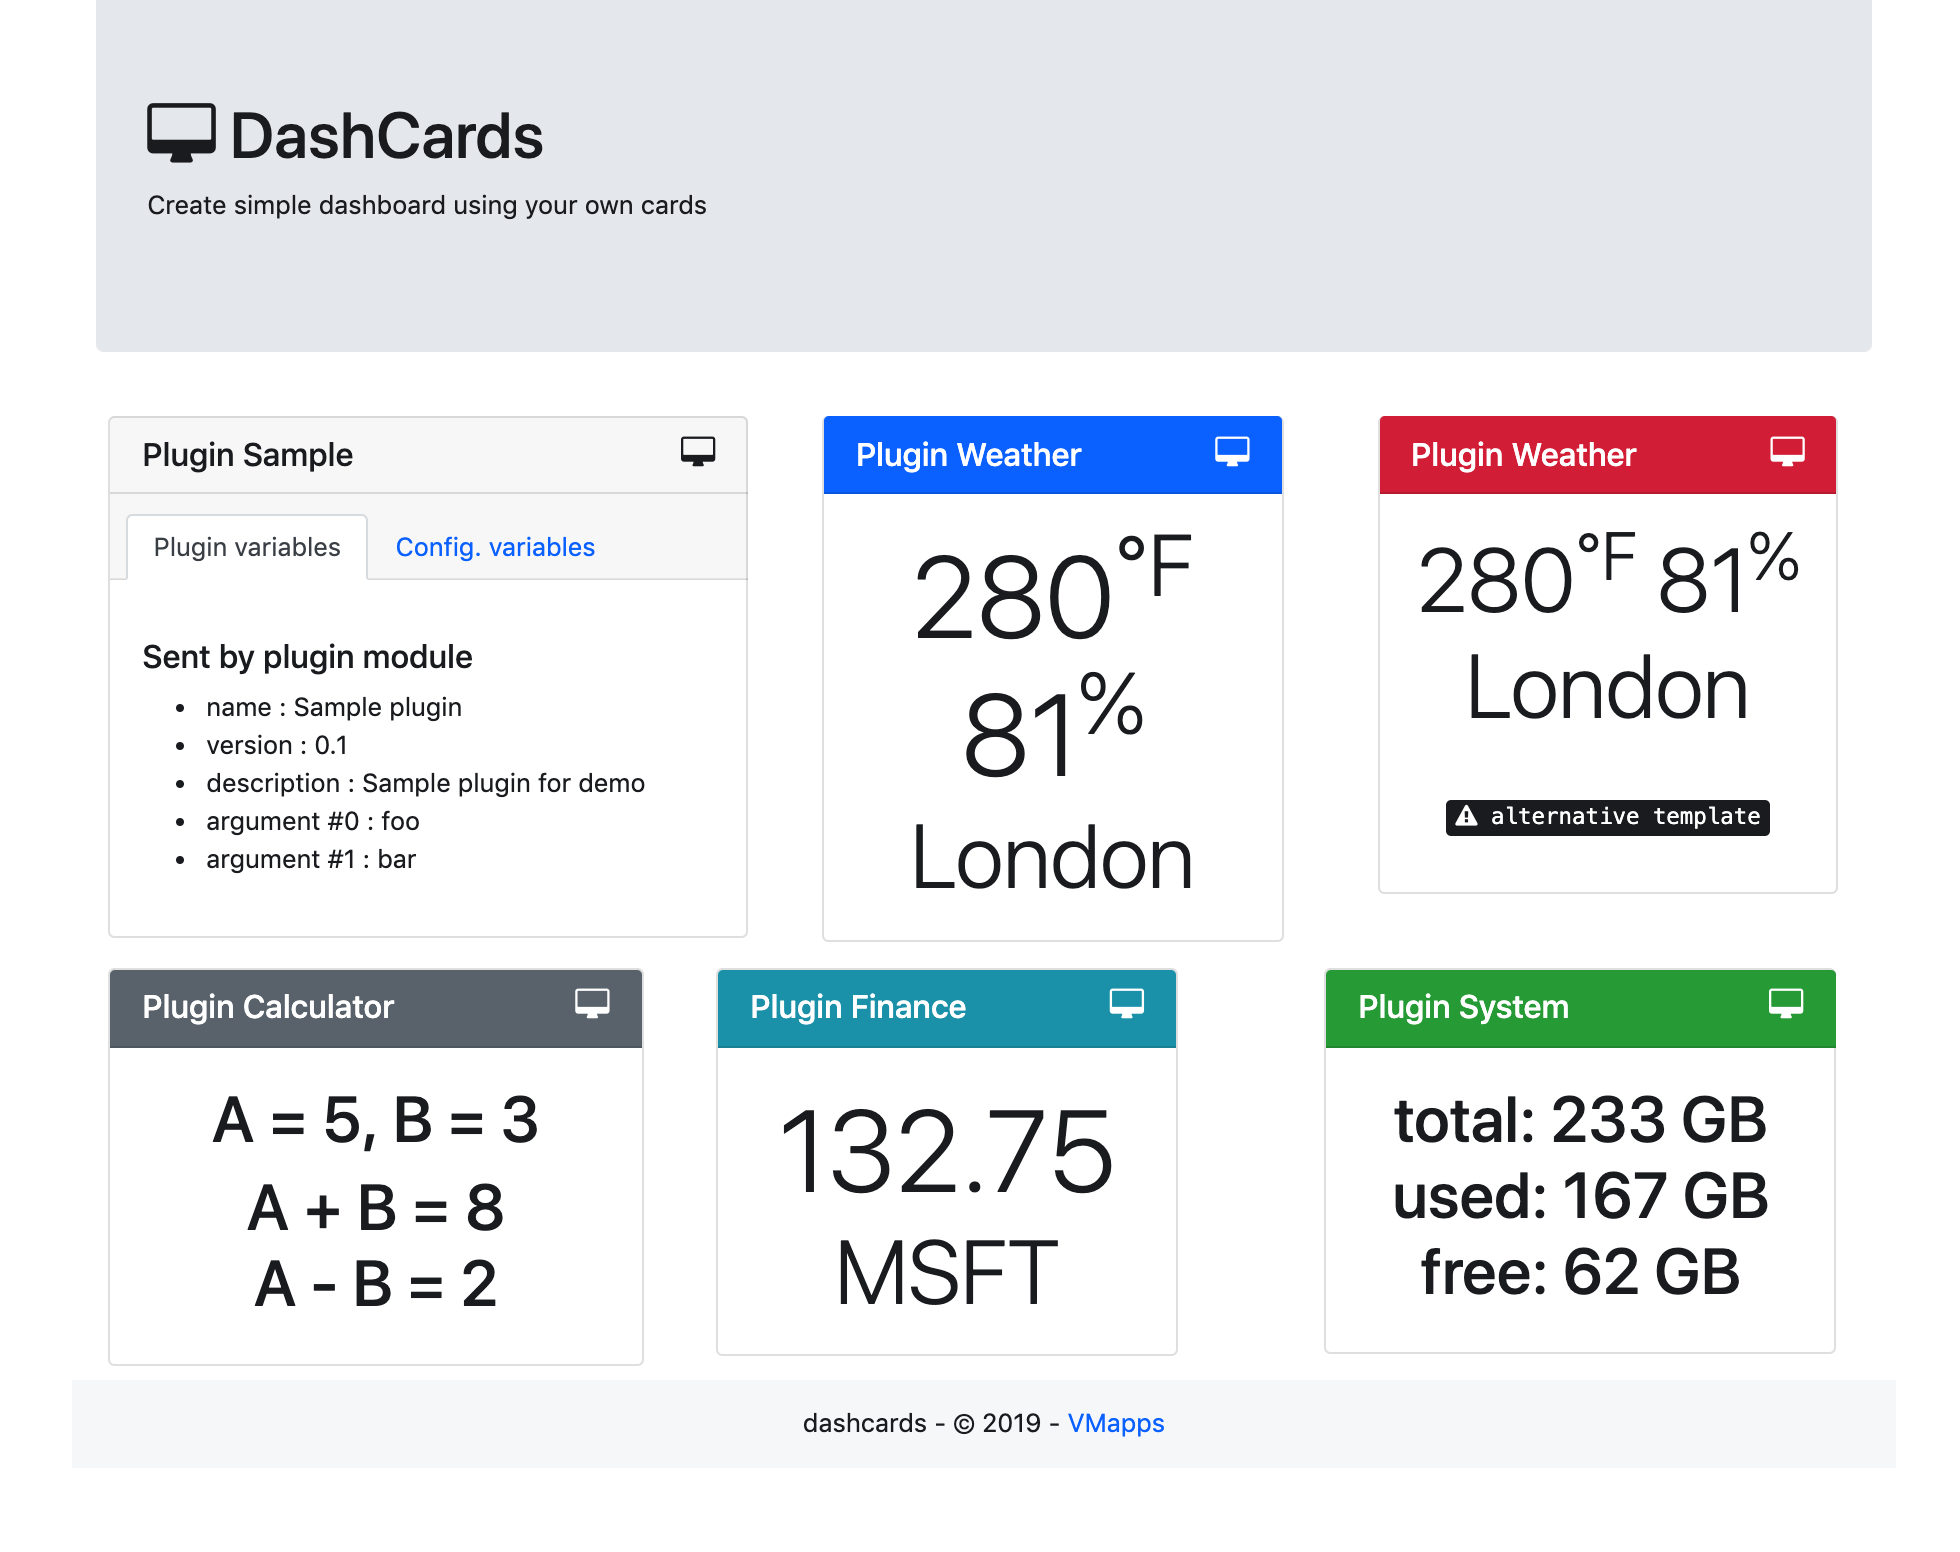
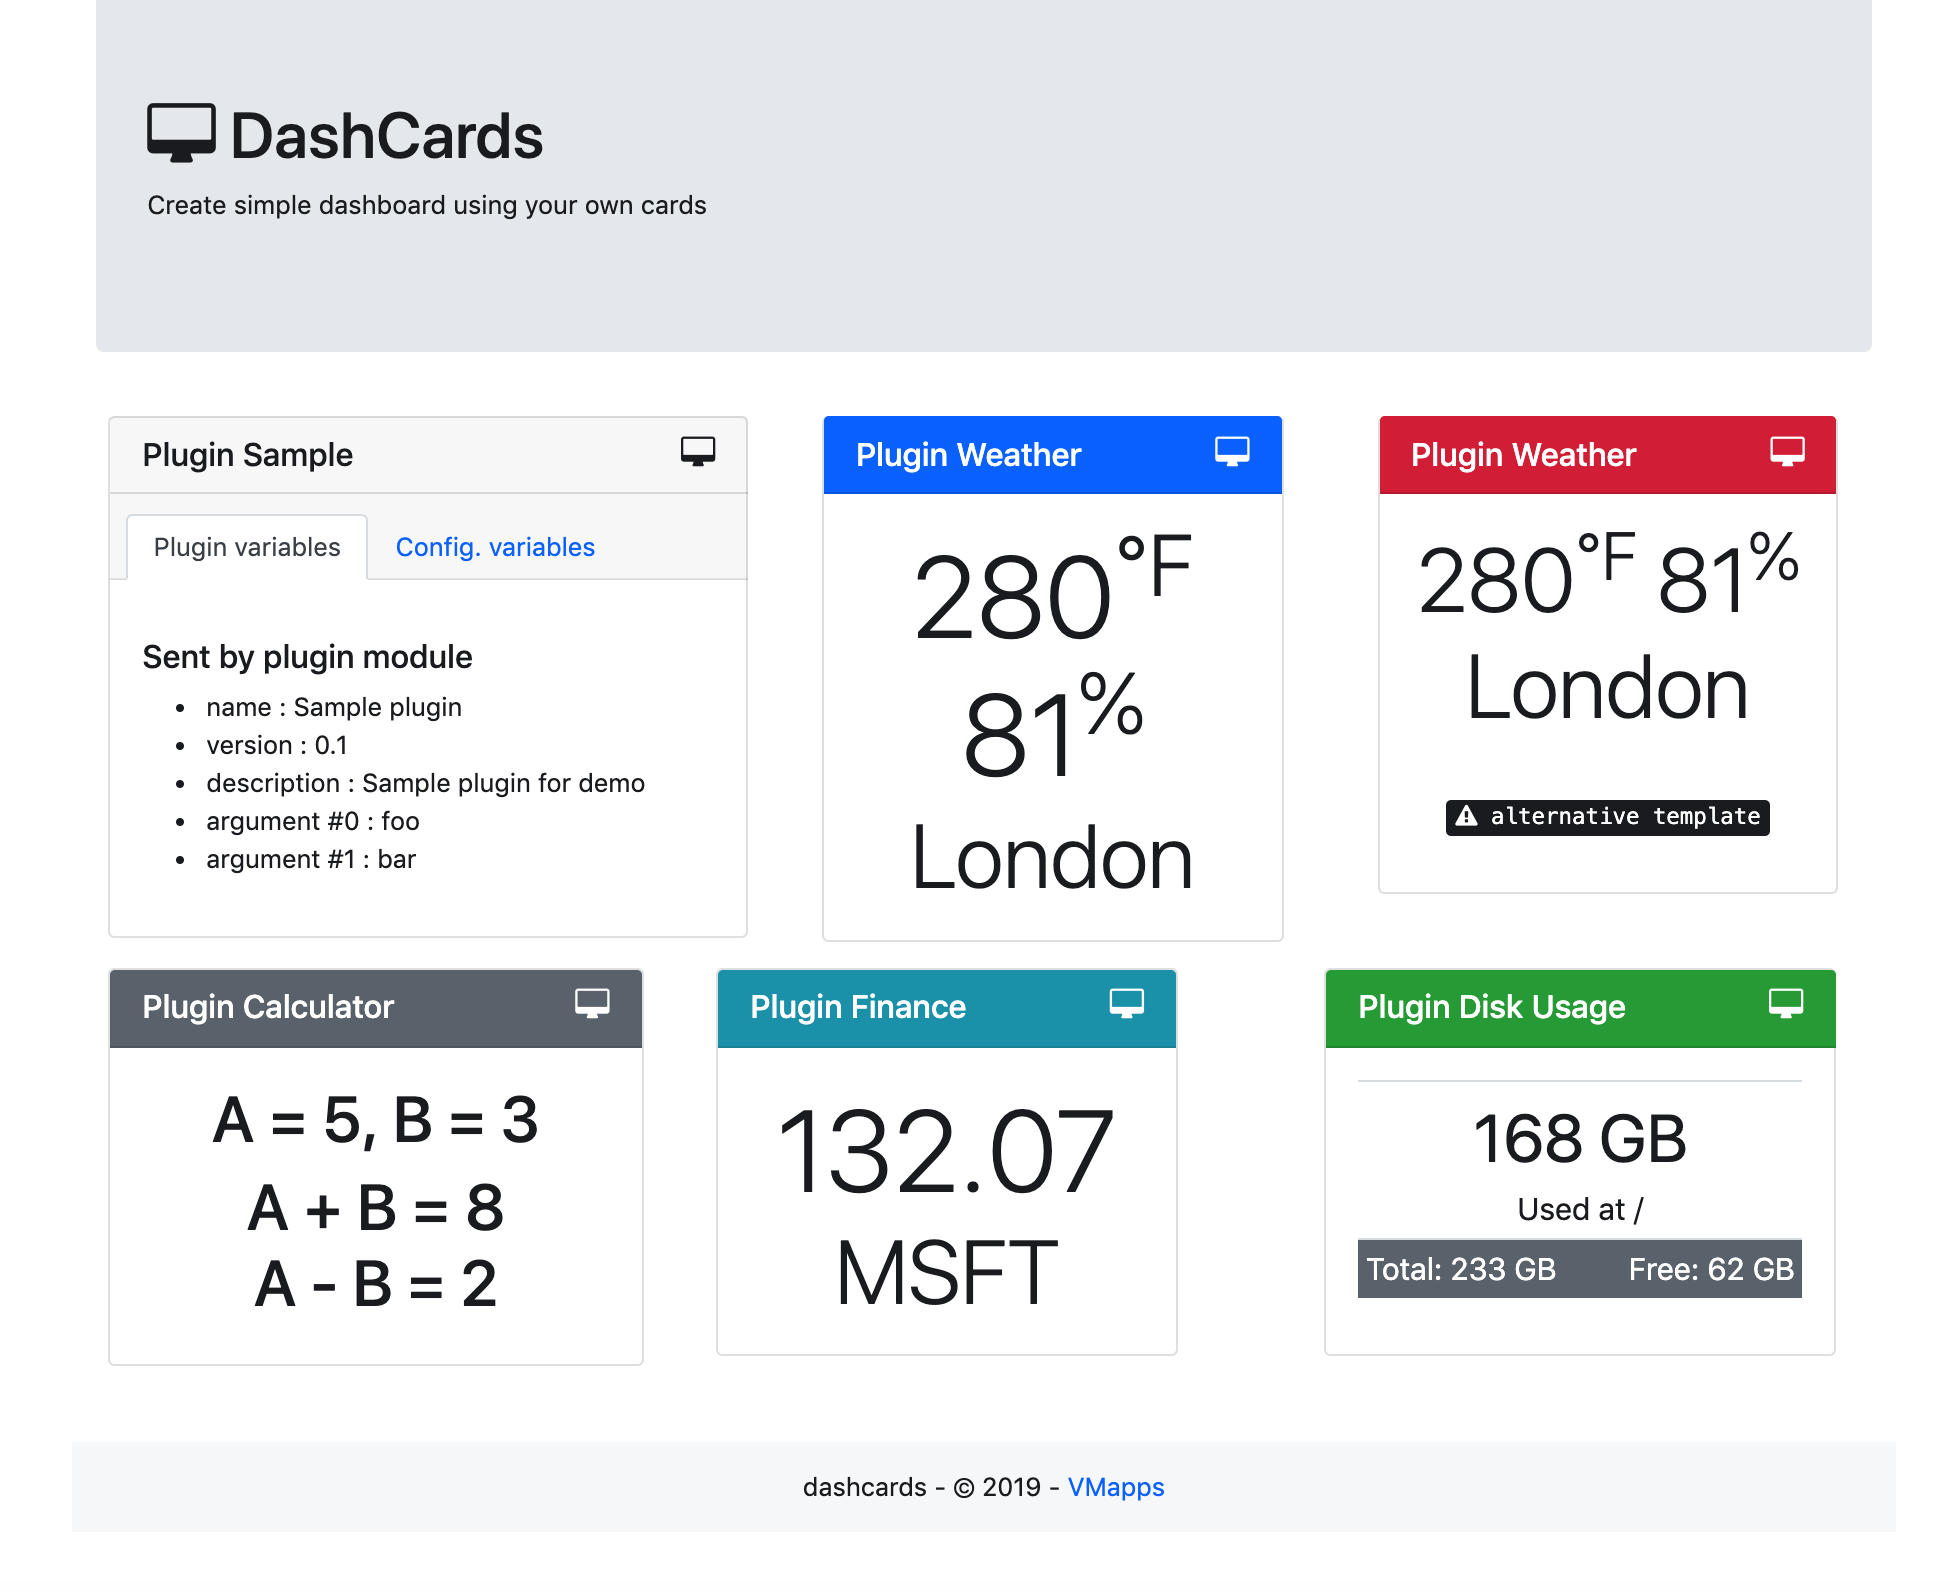
rename system plugin as diskusage

diff --git a/templates/diskusage.html b/templates/diskusage.html
@@ -1,0 +1,19 @@
+<div class="card plugin_{{ card.plugin }}" id="{{ card.id }}" style="width: 20rem;">
+	<h5 class="card-header bg-success text-white"><span class="fa fa-desktop pull-right" aria-hidden="true"></span> {{ card.title }}</h5>
+	<div class="card-body text-center">
+		<table class="table table-sm">
+			<tbody>
+				<tr>
+					<td class="text-center" colspan="2">
+						<span style="font-size:2.6em;">{{ render.used }} {{ render.units }}</span><br/>
+						<span style="font-size:1.2em;">Used at {{ card.arguments[0] }}</span>
+					</td>
+				</tr>
+				<tr>
+					<td class="text-left bg-secondary text-white"><span style="font-size:1.2em;">Total: {{ render.total }} {{ render.units }}</span></td>
+					<td class="text-right bg-secondary text-white"><span style="font-size:1.2em;">Free: {{ render.free }} {{ render.units }}</span></td>
+				</tr>
+			</tbody>
+		</table>		
+	</div>
+</div>

diff --git a/templates/_footer_.html b/templates/_footer_.html
@@ -4,6 +4,7 @@
 	<!-- Container -->
 	</div>
 
+<p>&nbsp;</p>
 <!-- Footer -->
 <footer class="container page-footer bg-light">
 
